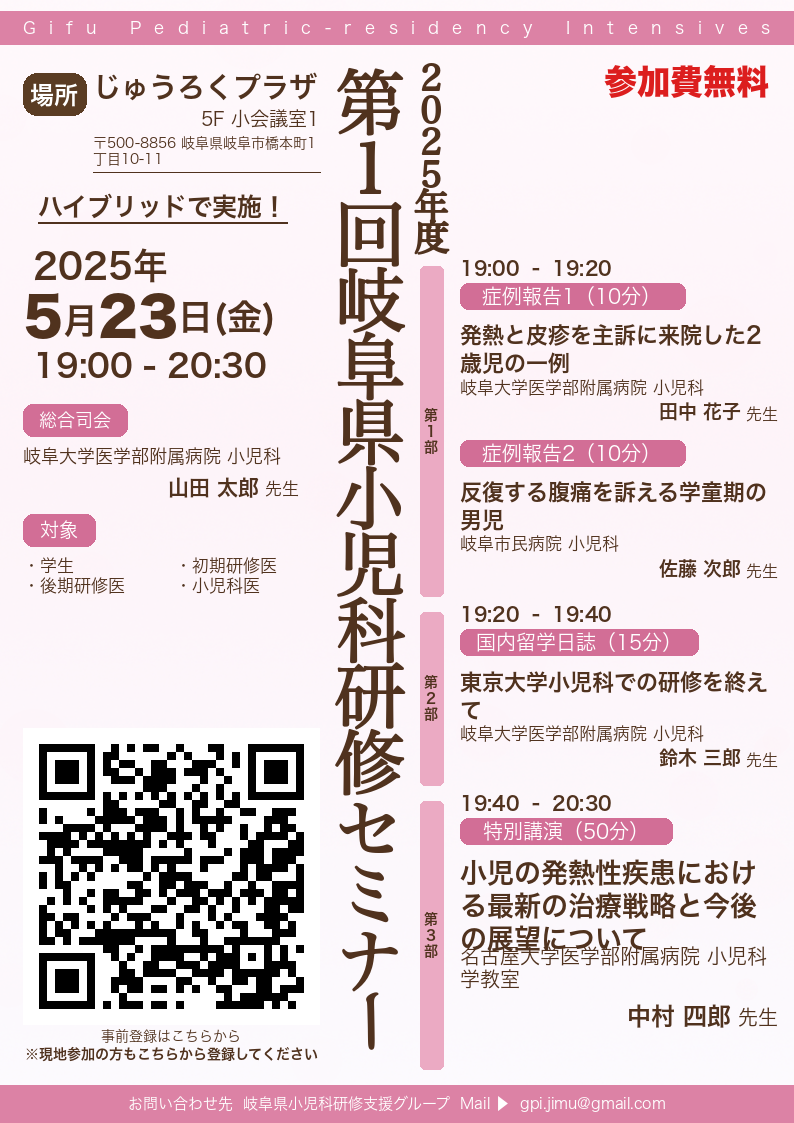
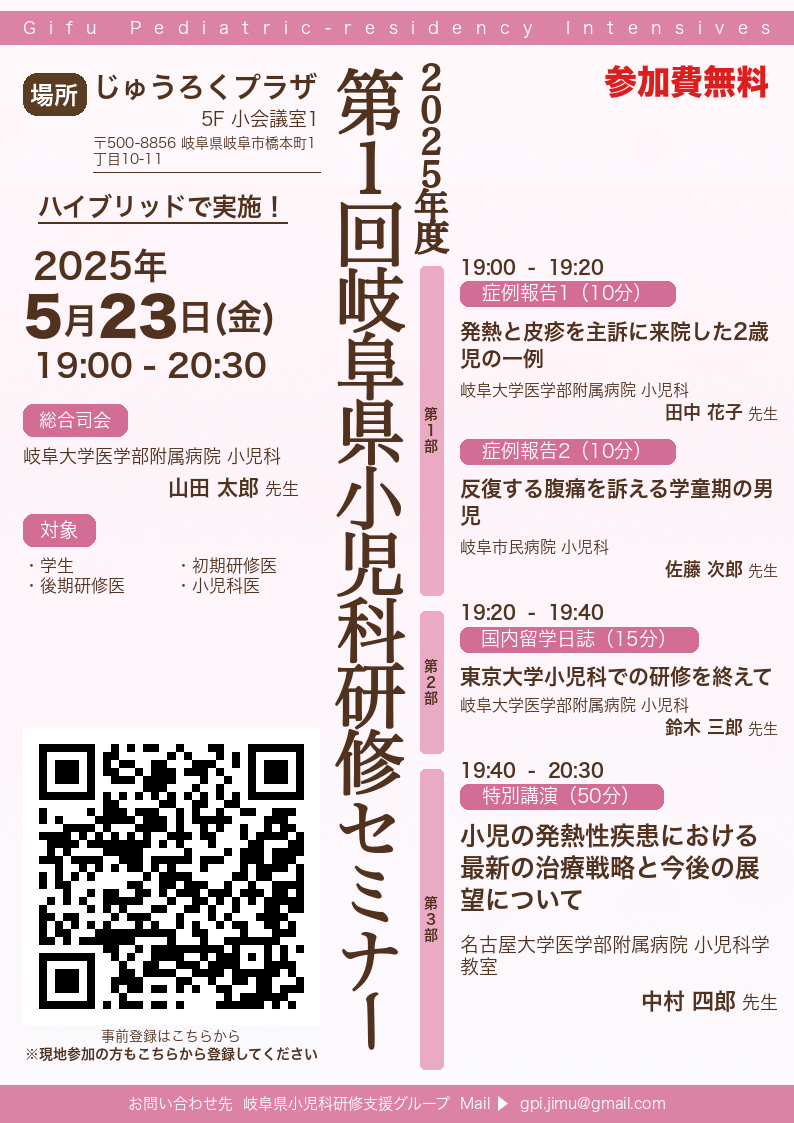
Enhance poster design guidelines by adding a new script for background generation and expanding color themes to 12 options with backward compatibility for deprecated keys. Update layout constants for improved title block height estimation and adjust column widths for better alignment.

diff --git a/poster/layout.py b/poster/layout.py
@@ -9,6 +9,7 @@ Pillow プレビュー: 794 x 1123 px
 ReportLab PDF:    595.27 x 841.89 pt
 """
 
+import math
 from dataclasses import dataclass, field
 from typing import List
 
@@ -100,9 +101,9 @@ FS_V_YEAR      = 0.022   # 縦書き年度文字
 # 第1部・第2部: 0.90（やや小さく）, 第3部: 1.10（やや大きく）
 SECTION_CONTENT_SCALES = [0.90, 0.90, 1.10]
 
-# タイトルブロック高さ乗数（フォントが小さいほど行間余白が詰まるため補正）
-# cs=0.90 のとき 1.35、cs=1.10 のとき 1.20 で視覚的な余白を統一
-SECTION_TITLE_MULTIPLIERS = [1.20, 1.20, 1.03]
+# タイトルブロック高さ乗数
+# draw_content_title の実際の line_spacing=1.35 と合わせ、1.40 で若干余裕を持たせる
+SECTION_TITLE_MULTIPLIERS = [1.40, 1.40, 1.40]
 
 # ─── バッジサイズ (normalized) ───────────────────────────────────────────
 
@@ -171,9 +172,13 @@ class LayoutEngine:
                     "scale": scale,
                 }))
 
-                # タイトル行数推定（cs が大きいほど1行の文字数が減る）
-                chars_per_line = max(8, int(13 / cs))
-                title_lines = max(1, len(item.title) // chars_per_line + 1)
+                # タイトル行数推定
+                # 実際の描画幅とフォントサイズ（レンダラーと同じ int 丸め）から算出
+                _prog_w_px = (PROG_W - PROG_PAD_L - PROG_PAD_R) * PREVIEW_W
+                _base_px   = int(FS_PROG_TITLE * PREVIEW_H * scale)
+                _font_px   = max(1, int(_base_px * cs))
+                chars_per_line = max(6, int(_prog_w_px / _font_px))
+                title_lines = max(1, math.ceil(len(item.title) / chars_per_line))
                 blocks.append(Block("title", 0, FS_PROG_TITLE * scale * tm * title_lines * cs, {
                     "text": item.title,
                     "scale": scale,

diff --git a/GUIDELINES.md b/GUIDELINES.md
@@ -117,8 +117,9 @@ GPI_Poster_Maker/
 │   ├── elements_pdf.py       # ReportLab 用描画関数（要素単位）
 │   ├── text_utils.py         # 日本語テキスト処理（折り返し・フィット）
 │   └── qr_generator.py       # URL → QR PIL Image
+├── generate_backgrounds.py   # 12テーマ分の背景画像を生成（グラデーション or Unsplash API）
 ├── themes/
-│   └── color_themes.py       # 5テーマ + カスタム定義
+│   └── color_themes.py       # 12テーマ + カスタム定義（後方互換エイリアスあり）
 ├── utils/
 │   ├── font_manager.py       # Noto Sans JP 管理（自動DL・登録）
 │   └── image_utils.py        # 背景合成ユーティリティ
@@ -153,22 +154,22 @@ ReportLab: n * PDF_H     (841.89 pt) または  n * PDF_W     (595.27 pt)
 ## 4. カラムレイアウト（横方向）
 
 ```
-0%        37%           50%      62%                  100%
-|  左      |  タイトル帯  | 右スト  |  プログラムエリア  |
-|  カラム  |  縦書き帯    | リップ  |  発表内容・時刻   |
+0%       41.5%         52%    57%                   100%
+|  左     |  タイトル帯  | 右スト |  プログラムエリア   |
+|  カラム |  縦書き帯    | リップ |  発表内容・時刻    |
 ```
 
 ※ 縦バー（旧 DIV_X / DIV_W）は廃止。タイトル帯がその位置を兼ねる。
 
 | 定数 | 値 | 説明 |
 | --- | --- | --- |
-| `LEFT_W` | 0.370 | 左カラム幅（0〜37%） |
-| `TITLE_X` | 0.370 | メインタイトル帯左端（= 左カラム右端） |
-| `TITLE_W` | 0.130 | メインタイトル帯幅（37〜50%、中央より左） |
-| `SECT_X` | 0.500 | 右ストリップ左端（= ポスター中央） |
-| `SECT_W` | 0.120 | 右ストリップ幅（50〜62%） |
-| `PROG_X` | 0.620 | プログラムエリア左端（= SECT_X + SECT_W） |
-| `PROG_W` | 0.380 | プログラムエリア幅（62〜100%） |
+| `LEFT_W` | 0.415 | 左カラム幅（0〜41.5%） |
+| `TITLE_X` | 0.415 | メインタイトル帯左端（= 左カラム右端）**変更禁止** |
+| `TITLE_W` | 0.105 | メインタイトル帯幅（41.5〜52%） |
+| `SECT_X` | 0.520 | 右ストリップ左端（= TITLE_X + TITLE_W） |
+| `SECT_W` | 0.050 | 右ストリップ幅（52〜57%） |
+| `PROG_X` | 0.570 | プログラムエリア左端（= SECT_X + SECT_W） |
+| `PROG_W` | 0.430 | プログラムエリア幅（57〜100%） |
 
 ---
 
@@ -178,12 +179,12 @@ ReportLab: n * PDF_H     (841.89 pt) または  n * PDF_W     (595.27 pt)
 |------|-----|------|
 | `HEADER_H` | 0.030 | 上部バー高さ |
 | `FOOTER_H` | 0.034 | 下部バー高さ |
-| `PROG_TOP` | 0.180 | 動的レイアウト開始 Y（年度テキスト分の余白含む） |
+| `PROG_TOP` | 0.230 | 動的レイアウト開始 Y（年度テキスト分の余白含む） |
 | `PROG_BOT` | ≈0.958 | 動的レイアウト終了 Y |
-| `PROG_H` | ≈0.778 | 動的レイアウト利用可能高さ |
+| `PROG_H` | ≈0.728 | 動的レイアウト利用可能高さ |
 
-**PROG_TOP = 0.180 の根拠**: 右ストリップ上部に "2025年度" を縦積み描画するため、
-ヘッダー下（≈34px）からプログラム開始（≈202px）までの ≈168px が年度テキスト領域となる。
+**PROG_TOP = 0.230 の根拠**: 右ストリップ上部に "2025年度" を縦積み描画するため、
+ヘッダー下（≈34px）からプログラム開始（≈258px）までの ≈224px が年度テキスト領域となる。
 
 ---
 
@@ -225,6 +226,22 @@ ReportLab: n * PDF_H     (841.89 pt) または  n * PDF_W     (595.27 pt)
 | `name` | 発表者氏名 |
 | `gap` | セクション間・コンテンツ間スペース |
 
+**タイトルブロック高さ推定:**
+
+`title` ブロックの高さは、実際のレンダラーと同じ int 丸めでピクセル幅・フォントサイズを計算して推定する。
+
+```python
+_prog_w_px = (PROG_W - PROG_PAD_L - PROG_PAD_R) * PREVIEW_W
+_base_px   = int(FS_PROG_TITLE * PREVIEW_H * scale)
+_font_px   = max(1, int(_base_px * cs))
+chars_per_line = max(6, int(_prog_w_px / _font_px))
+title_lines = max(1, math.ceil(len(item.title) / chars_per_line))
+block_h = FS_PROG_TITLE * scale * SECTION_TITLE_MULTIPLIERS[si] * title_lines * cs
+```
+
+`SECTION_TITLE_MULTIPLIERS = [1.40, 1.40, 1.40]` は実際の `draw_text_multiline` の `line_spacing=1.35` に対して
+余裕を持たせた値。この乗数を `line_spacing` より小さくするとタイトルと所属が重なるバグが発生する。
+
 ---
 
 ## 8. 右ストリップの設計仕様
@@ -246,16 +263,31 @@ ReportLab: n * PDF_H     (841.89 pt) または  n * PDF_W     (595.27 pt)
 
 ## 9. テーマカラーシステム
 
-`themes/color_themes.py` に 5テーマ + カスタムを定義。
+`themes/color_themes.py` に 12テーマ + カスタムを定義。
+背景画像は `generate_backgrounds.py` で生成（`assets/illustrations/backgrounds/`）。
 
 | テーマキー | 季節 | 月の目安 |
 |-----------|------|---------|
-| `spring_pink` | 春（桜） | 3〜5月 |
-| `early_summer_green` | 初夏（山） | 5〜6月 |
-| `summer_blue` | 夏（銀河） | 7〜8月 |
-| `autumn_orange` | 秋（紅葉） | 9〜11月 |
-| `winter_christmas` | 冬（クリスマス） | 12〜2月 |
+| `spring_sakura` | 春（桜） | 3〜4月 |
+| `spring_fresh` | 春（新緑） | 4〜5月 |
+| `early_summer_wisteria` | 初夏（藤） | 5月 |
+| `summer_hydrangea` | 梅雨（紫陽花） | 6月 |
+| `summer_ocean` | 夏（海） | 7〜8月 |
+| `summer_night` | 夏夜（銀河） | 8月 |
+| `early_autumn_cosmos` | 初秋（コスモス） | 9月 |
+| `autumn_leaves` | 秋（紅葉） | 10〜11月 |
+| `autumn_ginkgo` | 秋（銀杏） | 11月 |
+| `winter_snow` | 冬（雪景色） | 12〜1月 |
+| `winter_christmas` | 冬（クリスマス） | 12月 |
+| `new_year_sunrise` | 新春（初日の出） | 1〜2月 |
 | `custom` | カスタム | 任意 |
+
+**後方互換エイリアス**（旧キーで保存されたデータは自動変換される）:
+
+- `spring_pink` → `spring_sakura`
+- `early_summer_green` → `early_summer_wisteria`
+- `summer_blue` → `summer_night`
+- `autumn_orange` → `autumn_leaves`
 
 テーマオブジェクトのキー: `accent`, `accent_light`, `title_bar`, `zoom_color`, `bg_image`
 
@@ -349,3 +381,7 @@ streamlit run app.py
 - **DARK_BROWN のインポート**: `preview_renderer.py` では `from themes.color_themes import DARK_BROWN` をファイル末尾でインポートしている（循環インポート対策）。
 
 - **右ストリップ年度テキストと第N部ボックスは独立して描画**: 年度テキストは step 6、ラベルボックスは step 9 で描画。layout 計算後にのみラベルボックスを描画できる。
+
+- **SECTION_TITLE_MULTIPLIERS の重要性**: `layout.py` の `SECTION_TITLE_MULTIPLIERS` は `draw_content_title` の `line_spacing=1.35` と整合している必要がある。この値を `line_spacing` より小さくすると、LayoutEngine のブロック高さ推定が実際の描画より小さくなり、タイトルと所属が重なるバグが発生する。現在値 `[1.40, 1.40, 1.40]` はわずかに余裕を持たせた設定。
+
+- **Streamlit 保存/読み込み**: `_export_state()` / `_import_state()` は `with st.sidebar:` ブロックより**前**に定義する必要がある（実行順序の制約）。保存ファイルには `_version: "1.1"` を付与し、旧テーマキーは `_THEME_ALIASES` で自動変換する。
